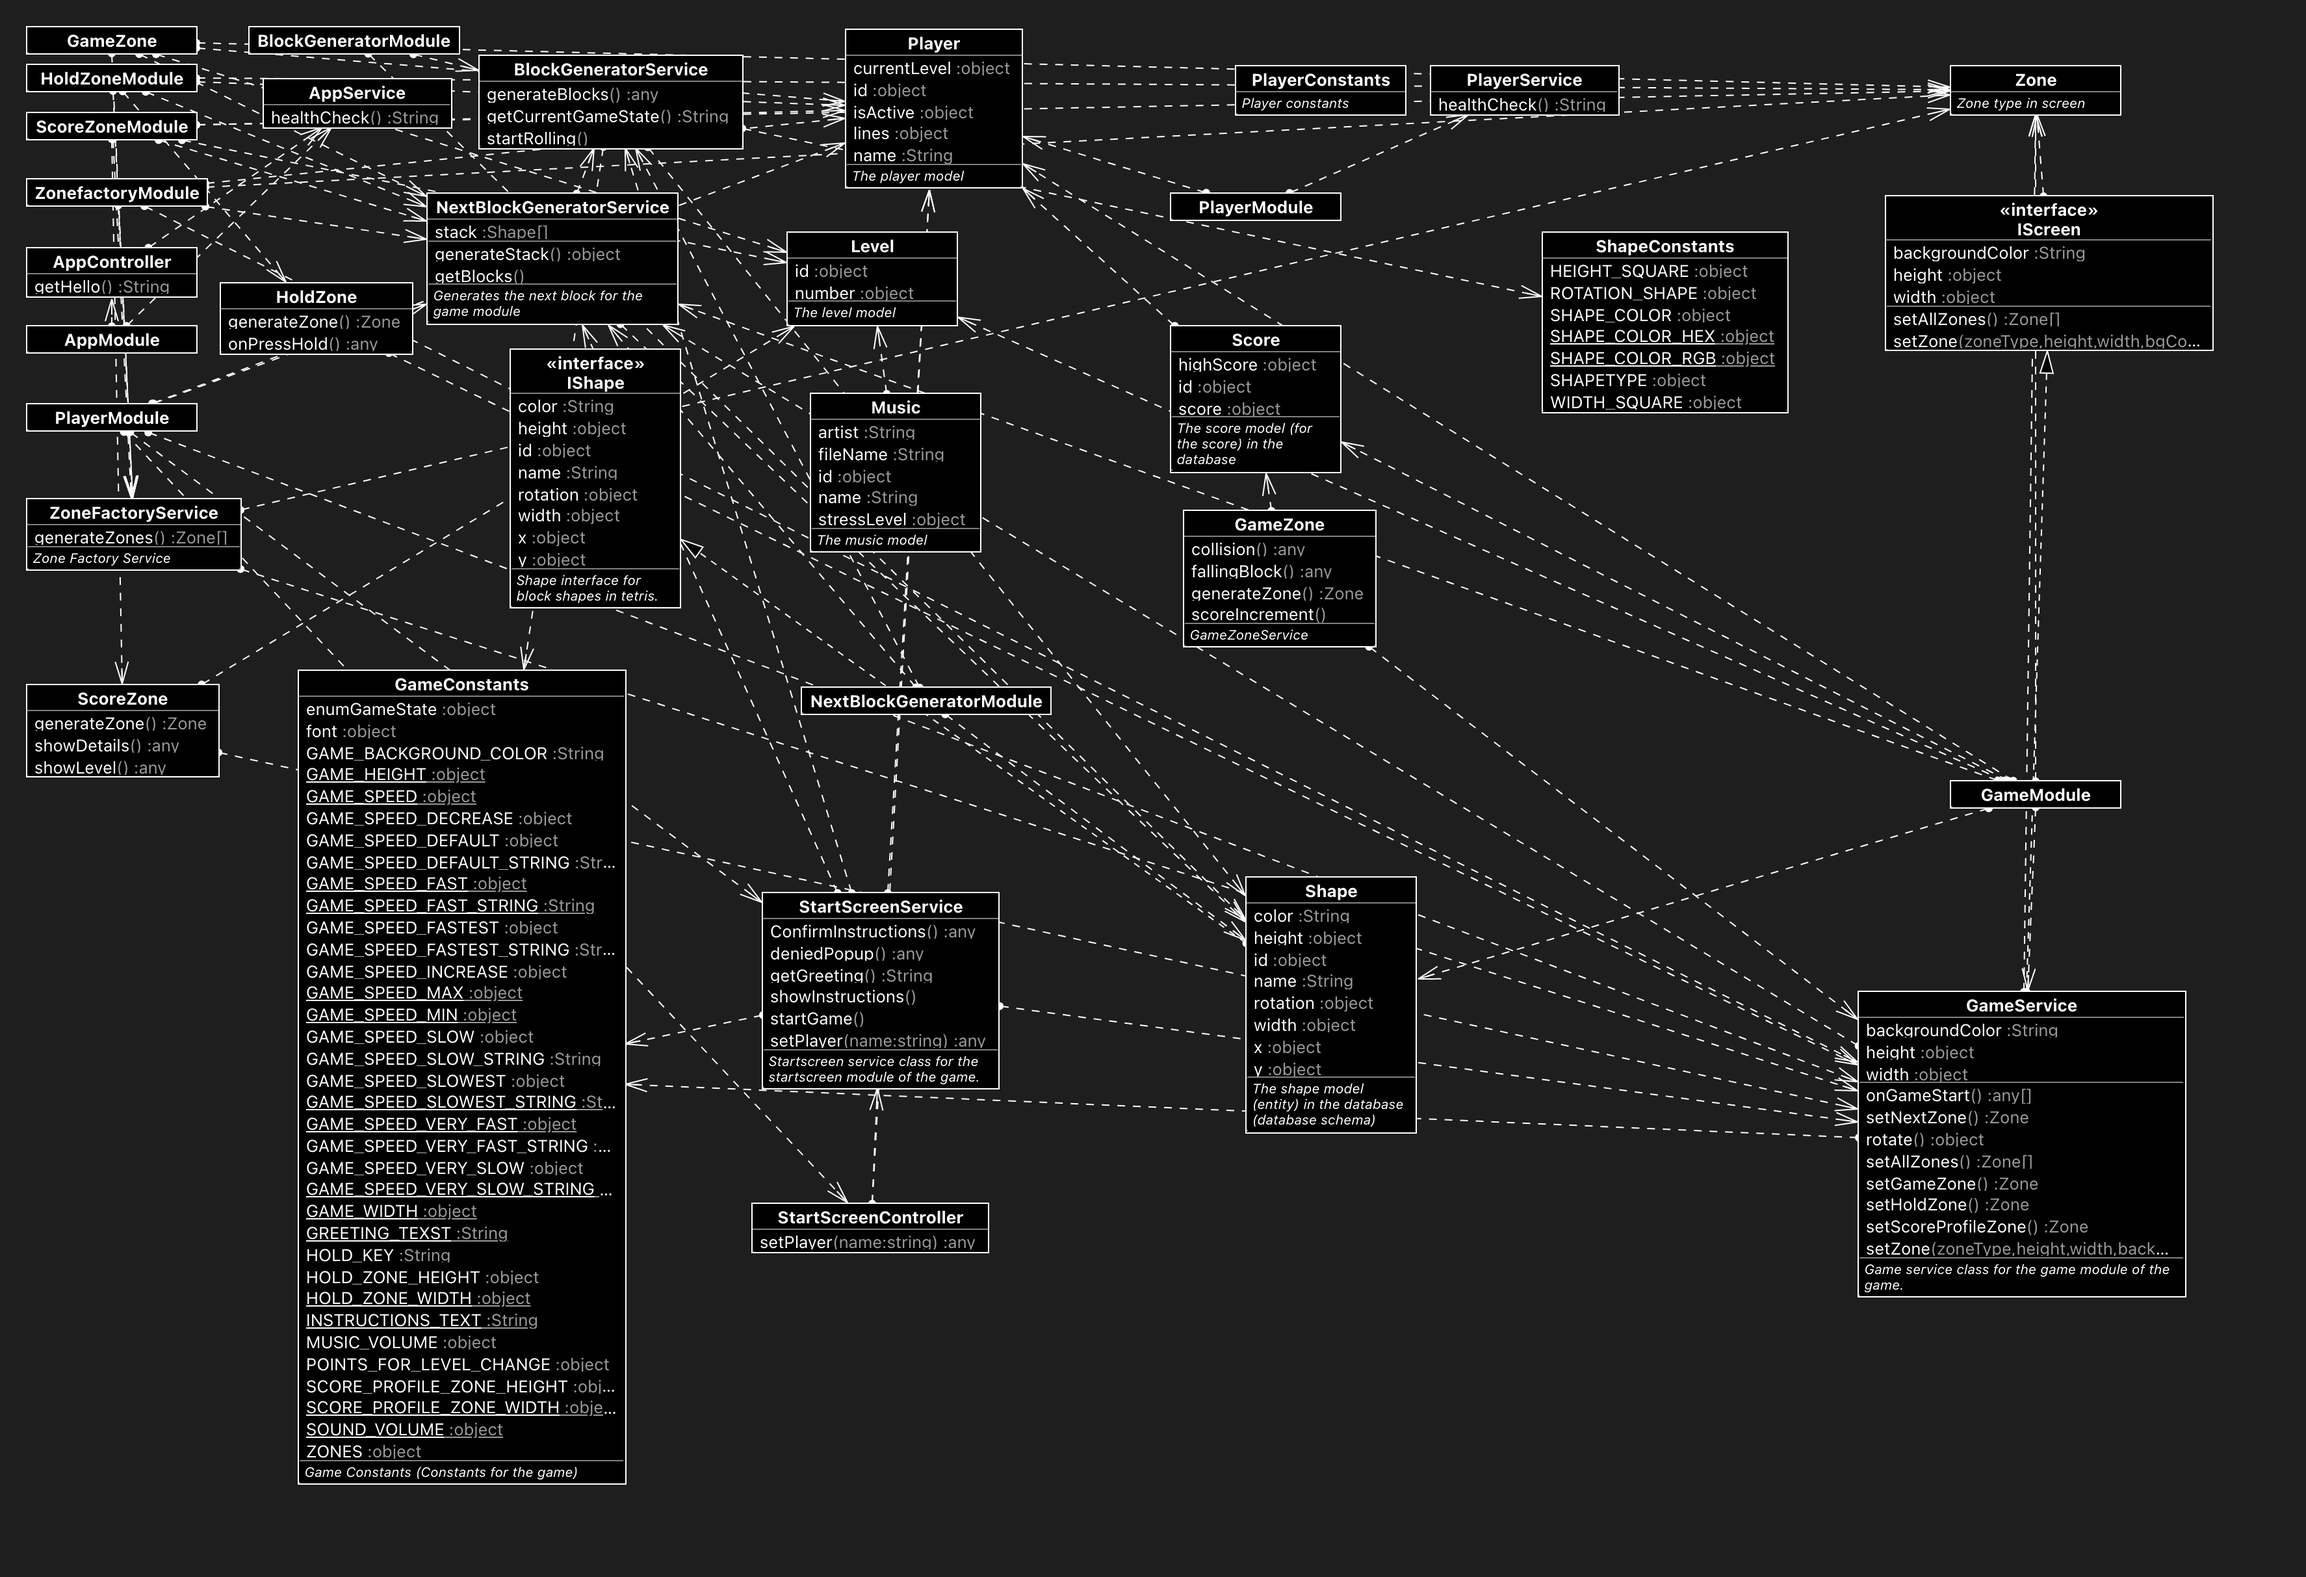
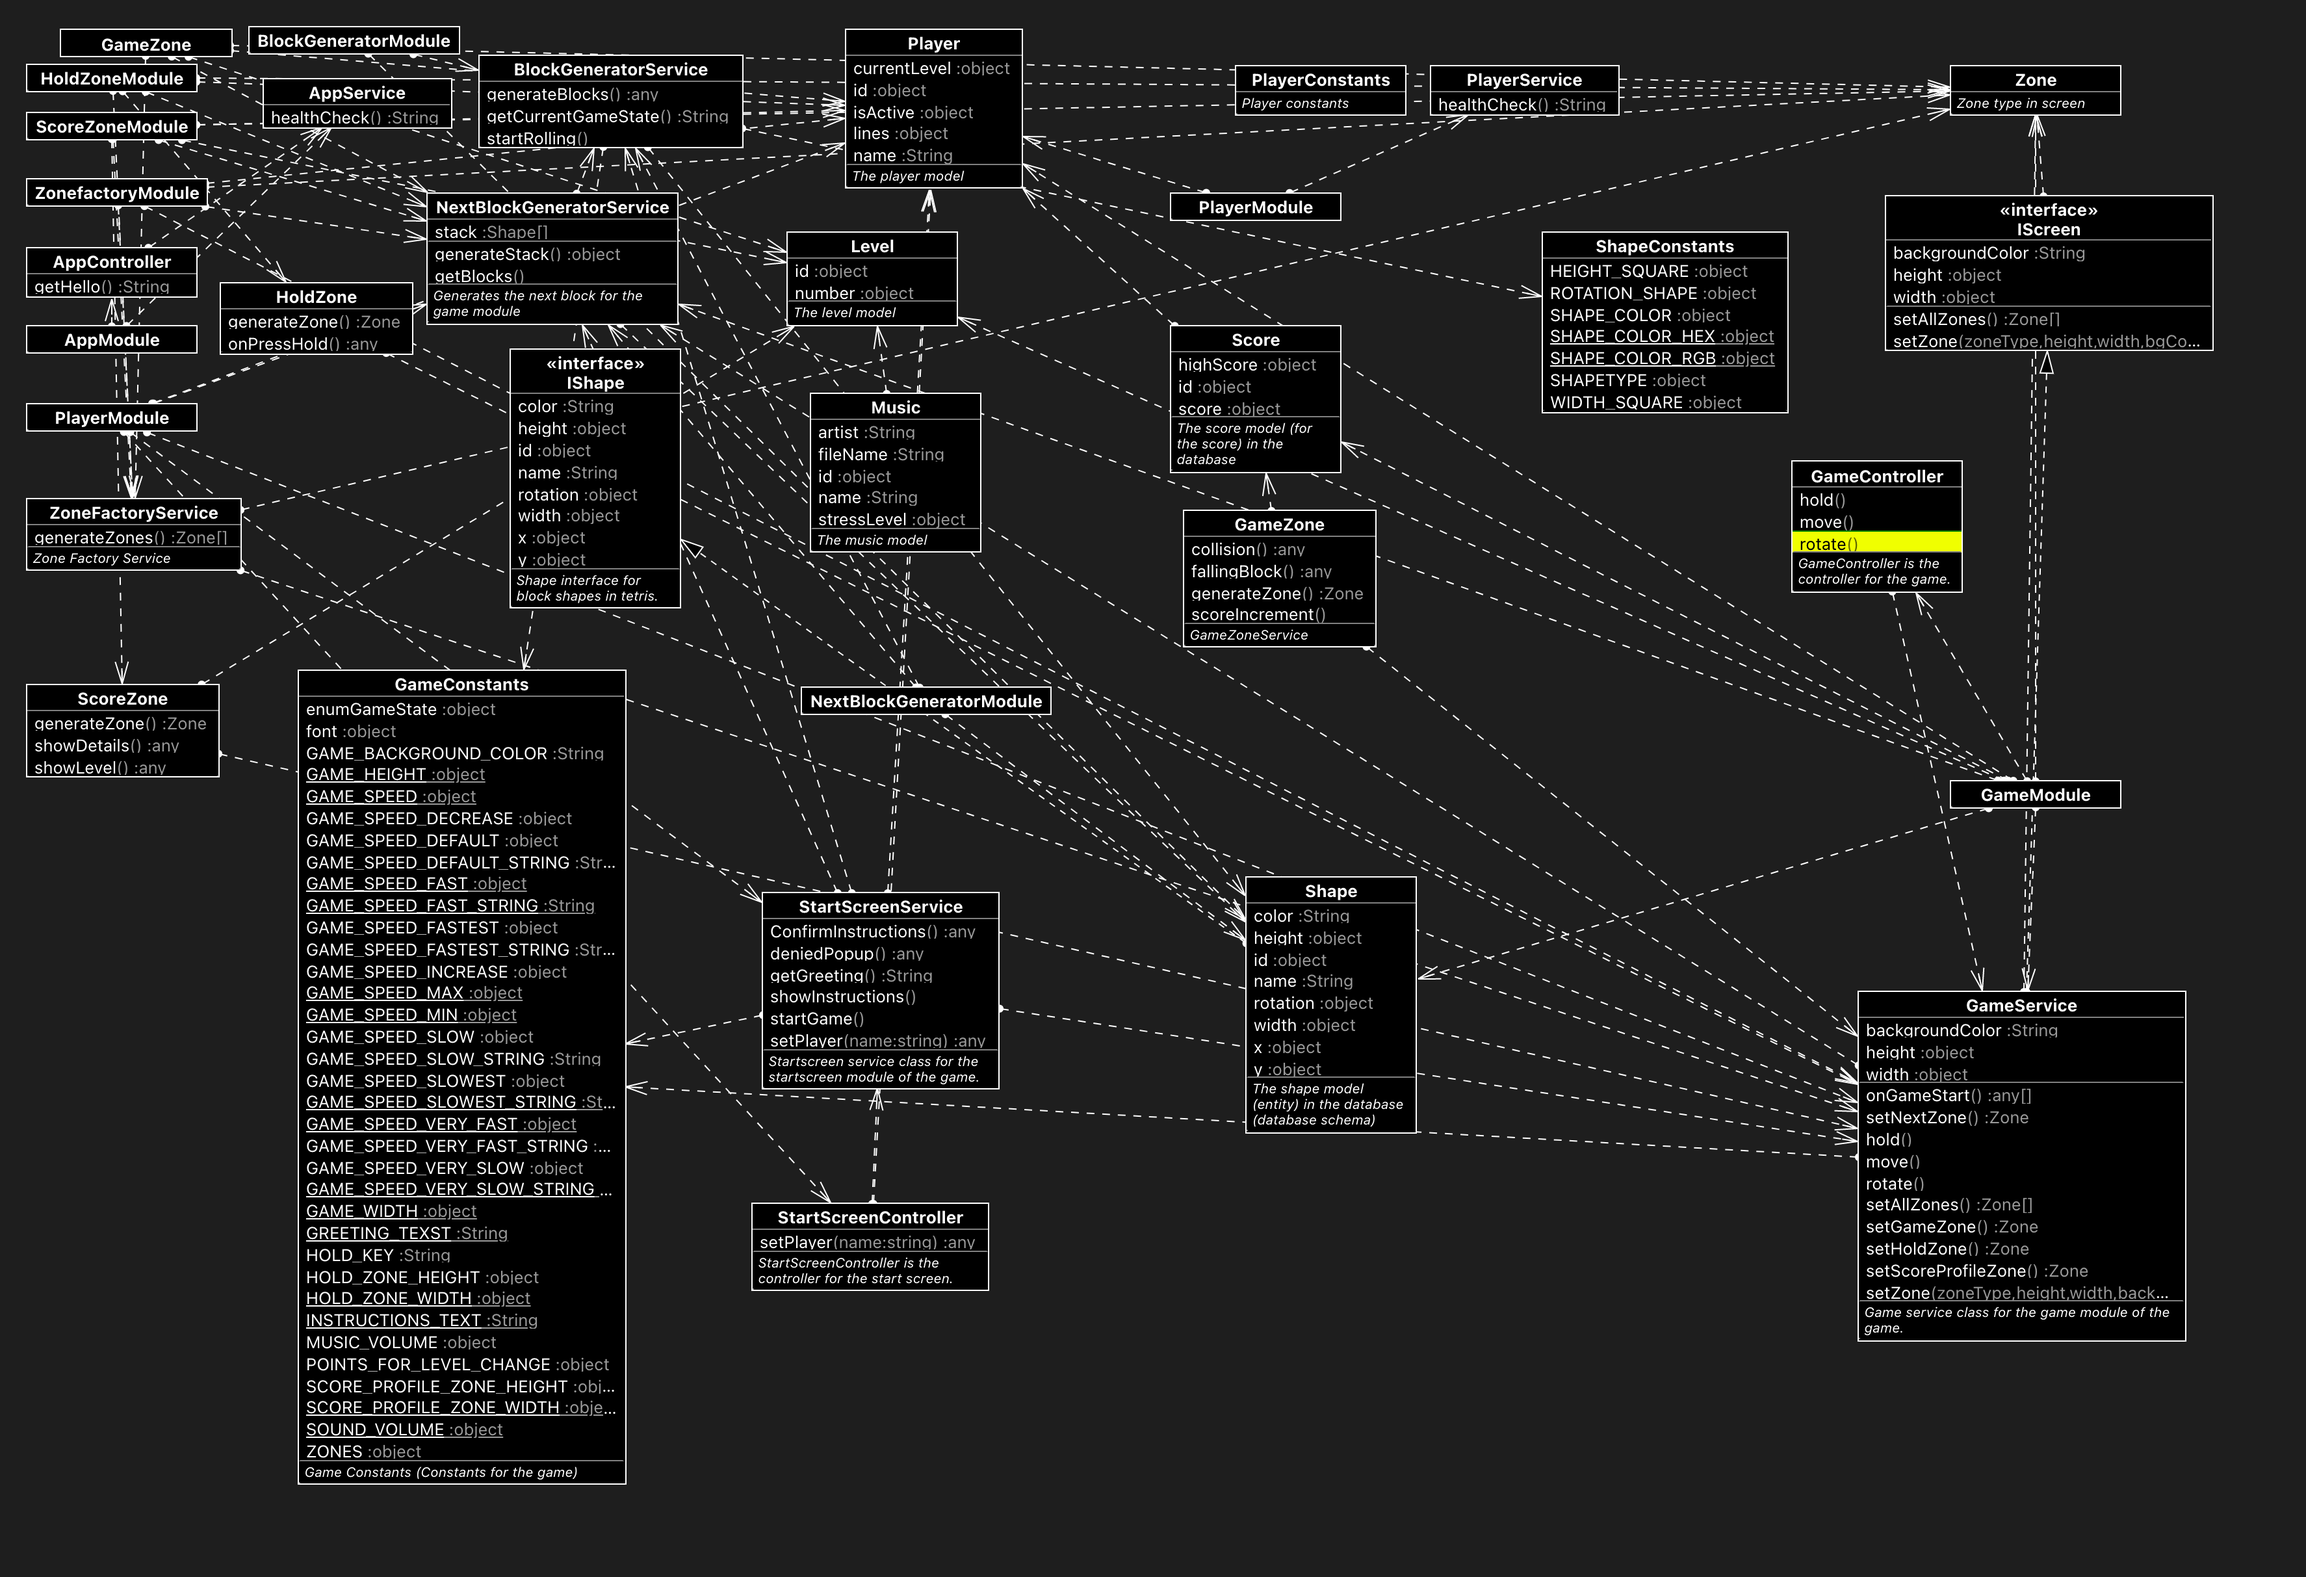
controller

diff --git a/src/controller/game.controller.ts b/src/controller/game.controller.ts
@@ -1,0 +1,45 @@
+import { Controller, Get } from '@nestjs/common';
+import { GameService } from 'src/service/game.service';
+/**
+ * GameController is the controller for the game.
+ *
+ * @export
+ * @class GameController
+ */
+@Controller()
+export class GameController {
+  constructor(private readonly gameservice: GameService) {}
+  /**
+   * Rotate the tetramino
+   *
+   * @private
+   * @return {*}  {void}
+   * @memberof GameController
+   */
+  @Get('/rotate')
+  private rotate(): void {
+    return this.gameservice.rotate();
+  }
+  /**
+   * Hold the tetramino
+   *
+   * @private
+   * @return {*}  {void}
+   * @memberof GameController
+   */
+  @Get('/hold')
+  private hold(): void {
+    return this.gameservice.hold();
+  }
+  /**
+   * Move the tetramino
+   *
+   * @private
+   * @return {*}  {void}
+   * @memberof GameController
+   */
+  @Get('/move')
+  private move(): void {
+    return this.gameservice.move();
+  }
+}

diff --git a/src/controller/startscreen.controller.ts b/src/controller/startscreen.controller.ts
@@ -1,11 +1,24 @@
 import { Controller, Get, Query } from '@nestjs/common';
 import { Player } from 'src/model/player.entity';
 import { StartScreenService } from '../service/startscreen.service';
-
+/**
+ * StartScreenController is the controller for the start screen.
+ *
+ * @export
+ * @class StartScreenController
+ */
 @Controller()
 export class StartScreenController {
   constructor(private readonly startScreenService: StartScreenService) {}
 
+  /**
+   * Set the player details
+   *
+   * @private
+   * @param {string} name
+   * @return {*}  {Promise<Player>}
+   * @memberof StartScreenController
+   */
   @Get('/player')
   private async setPlayer(@Query('name') name: string): Promise<Player> {
     return this.startScreenService.setPlayer(name);

diff --git a/src/module/game.module.ts b/src/module/game.module.ts
@@ -1,5 +1,6 @@
 import { Module } from '@nestjs/common';
 import { TypeOrmModule } from '@nestjs/typeorm';
+import { GameController } from 'src/controller/game.controller';
 import { Level } from 'src/model/level.entity';
 import { Player } from 'src/model/player.entity';
 import { Score } from 'src/model/score.entity';
@@ -15,6 +16,6 @@ import { GameService } from './../service/game.service';
     TypeOrmModule.forFeature([Player, Zone, Shape, Score, Level]),
   ],
   providers: [GameService],
-  controllers: [],
+  controllers: [GameController],
 })
 export class GameModule {}

diff --git a/src/service/game.service.ts b/src/service/game.service.ts
@@ -125,7 +125,26 @@ export class GameService implements IScreen {
    * @return {*}  {number}
    * @memberof GameService
    */
-  rotate(): number {
-    return this.rotate();
+  rotate(): void {
+    this.rotate();
+  }
+
+  /**
+   * hold the tetramino
+   *
+   * @return {*}  {number}
+   * @memberof GameService
+   */
+  hold(): void {
+    this.hold();
+  }
+  /**
+   * move the tetramino
+   *
+   * @return {*}  {number}
+   * @memberof GameService
+   */
+  move(): void {
+    this.move();
   }
 }
